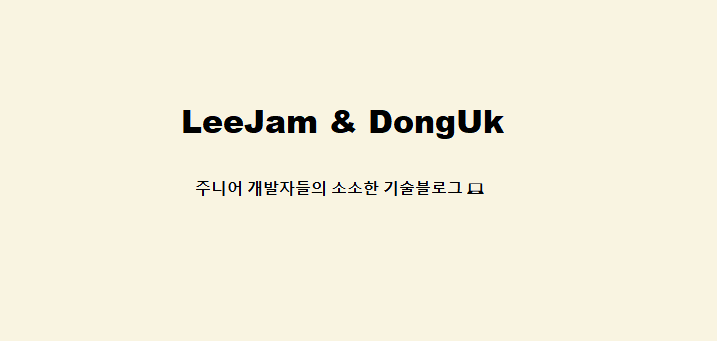
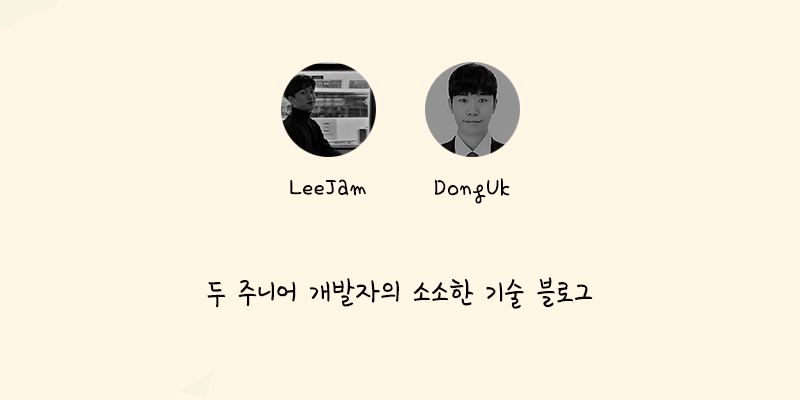
사진 변경 & og image 변경

diff --git a/_includes/author.html b/_includes/author.html
@@ -6,7 +6,7 @@
   />
   <img
     class="author-avatar"
-    style="margin-left: 40px;"
+    style="margin-left: 30px;"
     src="{{ site.author.avatar2 }}"
     alt="{{ site.author.username2 }}"
   />

diff --git a/_sass/klise/_layout.scss b/_sass/klise/_layout.scss
@@ -190,8 +190,8 @@
   }
 
   .author-avatar {
-    width: 70px;
-    height: 70px;
+    width: 80px;
+    height: 80px;
     border-radius: 100%;
     user-select: none;
     background-color: $black;
